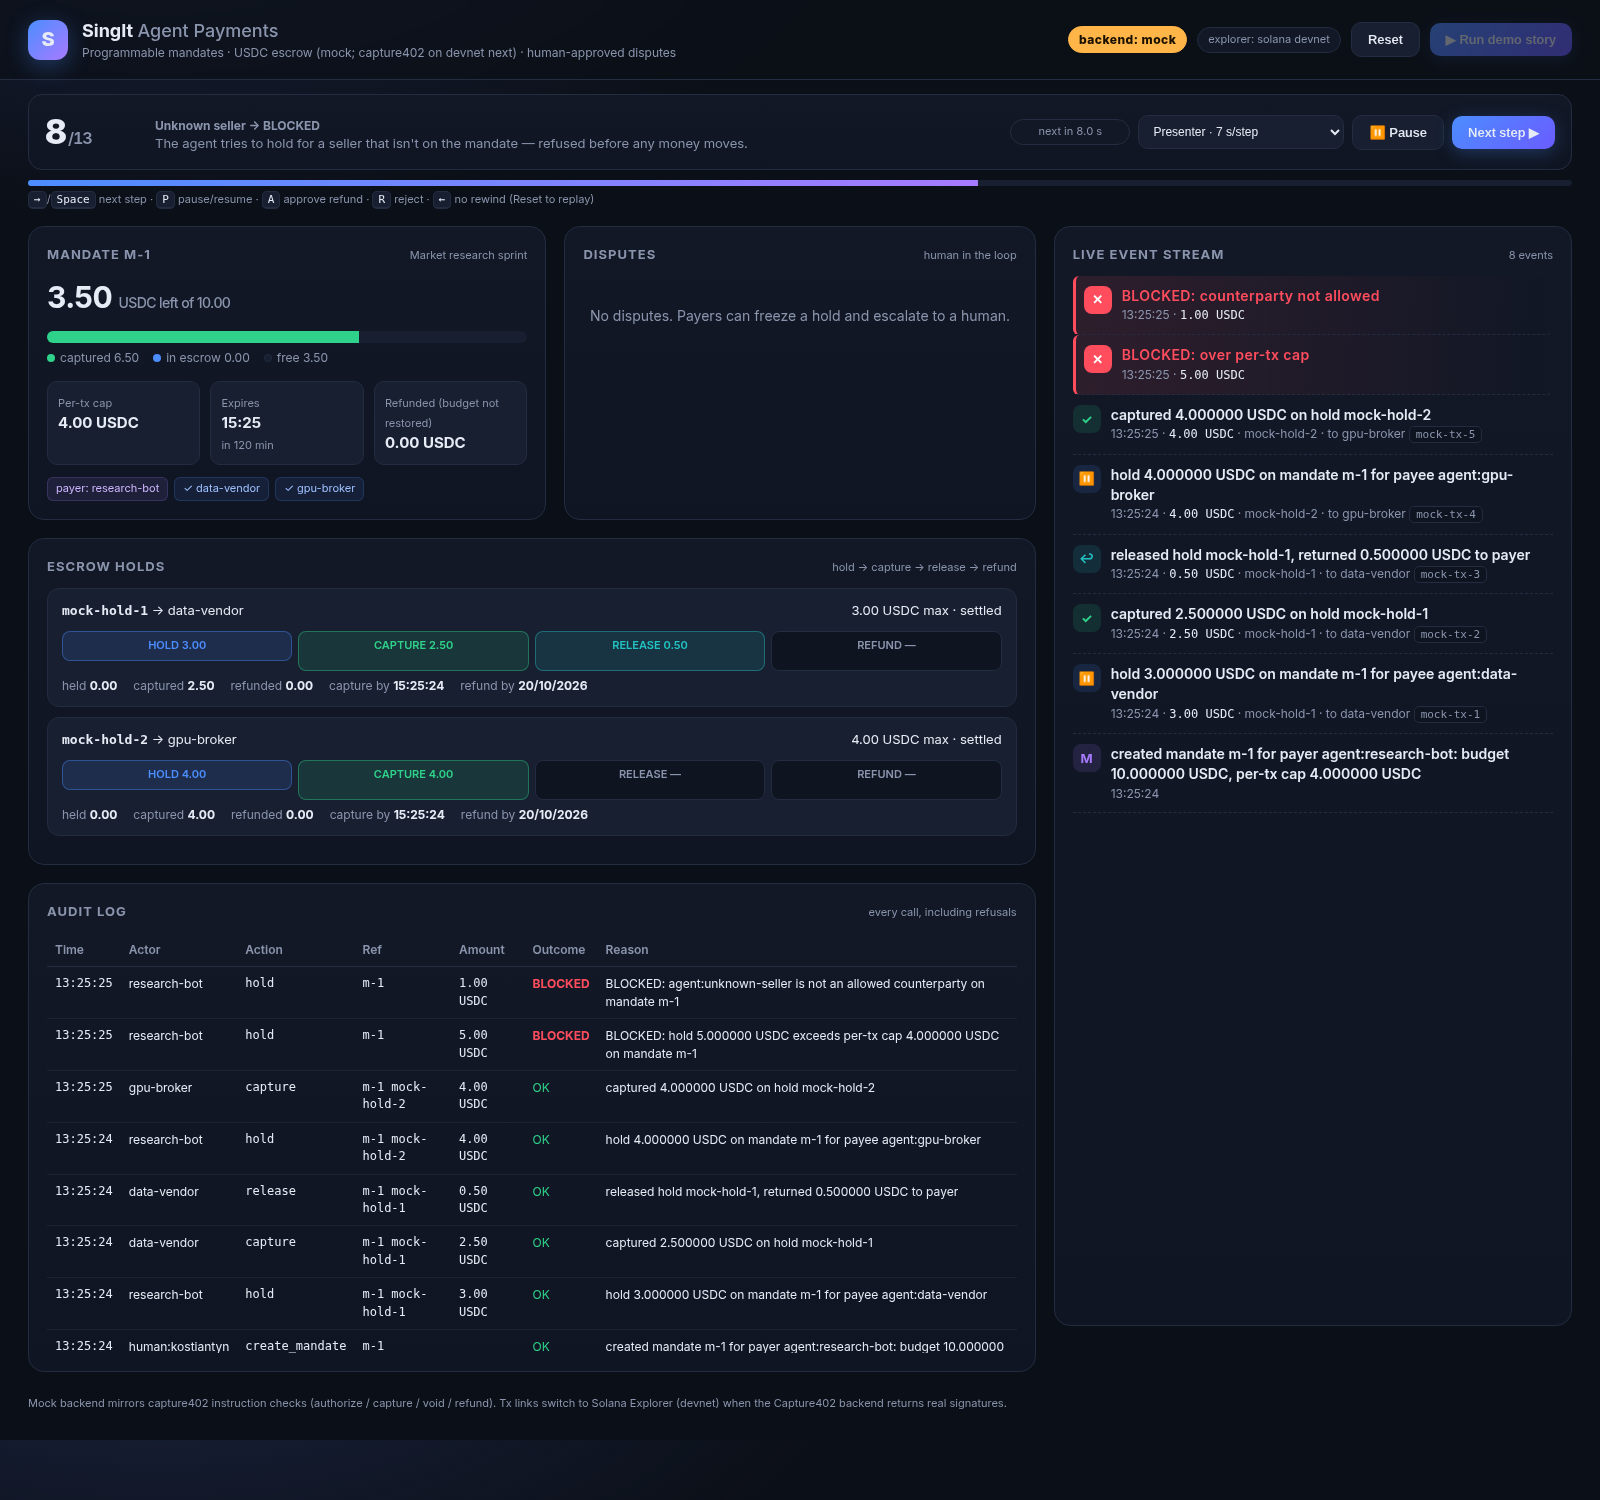
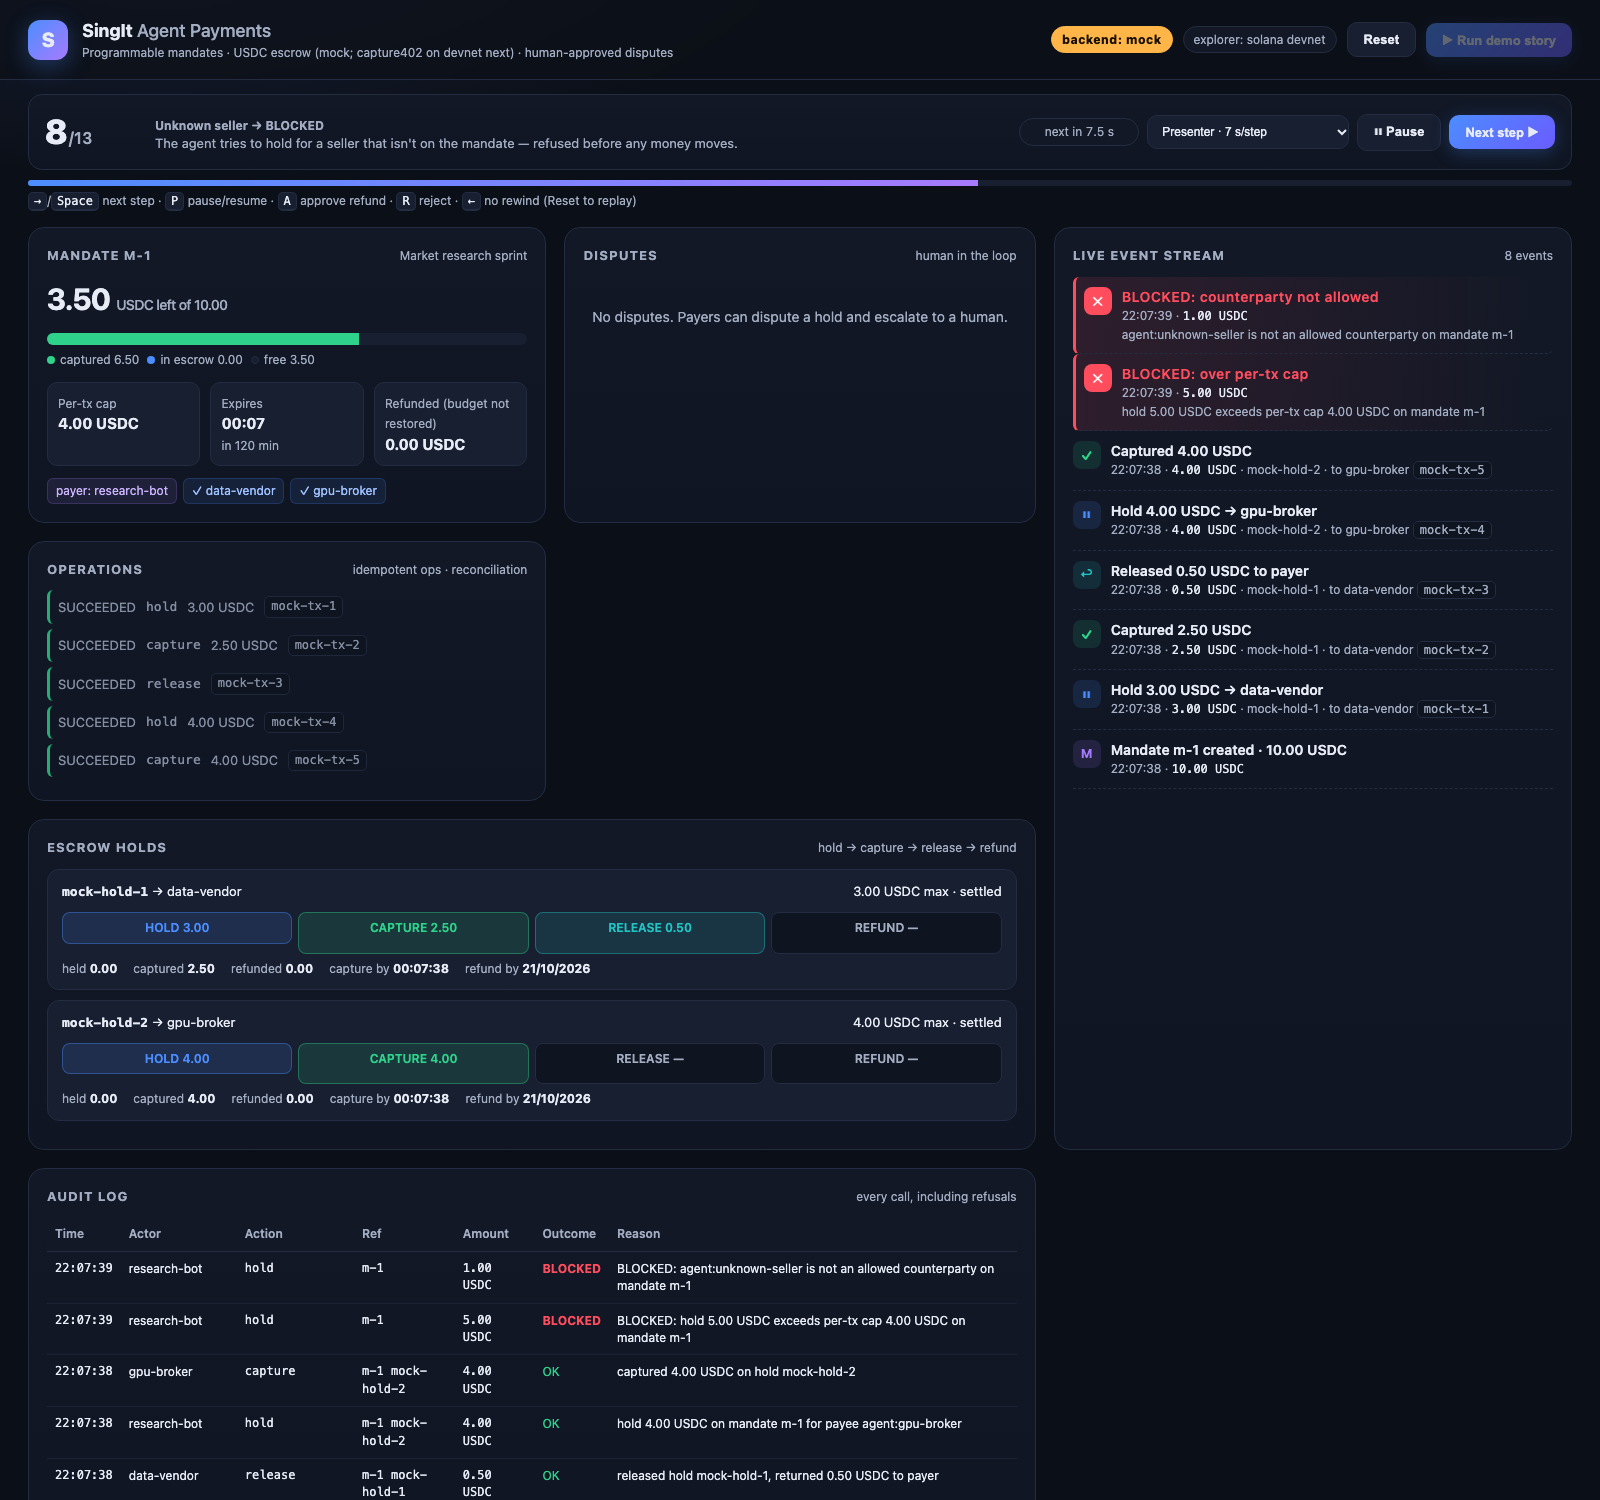
docs: rewrite README for the current project; refresh dashboard screenshots
The README now covers the status (mock/historical/not run, Go/No-Go), the
payment-safety model, per-agent tokens and roles, all 12 tools with who may
call them, devnet operator docs and tests. Screenshots are regenerated from
the current UI.

Also: the ops panel no longer shows a hold's post-operation balance as the
operation amount (release showed 0.00 USDC), screenshot.sh works on macOS
(BSD mktemp needs trailing Xs), and .env.example lists the agent tokens.

diff --git a/README.md b/README.md
@@ -1,121 +1,171 @@
-# singit-agent-pay
+# SingIt Agent Pay
 
-**Agents that pay each other, safely:** an MCP server that lets AI agents hold, capture, release and refund USDC under human-set mandates (budget, per-tx cap, allowed payees, deadlines), with disputes only a human can resolve and a full audit log.
+**Agents that pay each other, under human-set limits.** SingIt Agent Pay is an MCP server that lets AI agents pay each other in USDC through escrow. A human sets the mandate (budget, per-transaction cap, allowed payees, expiry). The buyer agent locks funds; the seller agent captures what the work actually cost; the rest goes back. Only a human can settle a dispute, and every action, including every refused one, lands in an audit log.
 
-> **Status:** the default demo runs on the **mock backend** (in-memory, synthetic data, no keys). The Solana devnet backend (`Capture402Backend`) is implemented and tested locally against the pinned public ABI. The live entrypoint requires a private durable journal and resolves original pending transactions before serving writes. [Devnet acceptance](docs/CAPTURE402-DEVNET.md) still requires a verified deployment, explicit provider/keys/funding and separate authorization. Devnet only, never mainnet.
+Built at FinTechers Prague, Track 2 "Agents that pay each other", 19–20 October 2026. Escrow runs on [capture402](https://github.com/starPaw/capture402-solana) on Solana devnet, with a mock backend for local demos.
 
-## Quickstart
+![Demo dashboard: mandate, escrow holds, a dispute waiting for a human, and the live event stream with blocked attempts](demo-dashboard/screenshots/03-dispute-pending.png)
 
-Requires Node 20, 22 or 24 (`nvm use` reads `.nvmrc` = 22), macOS or Linux.
+## Status
 
-```sh
-npm ci            # also installs singit-mcp/ dependencies
-npm run demo:all  # MCP server on :8787 + dashboard on :5173, Ctrl-C stops both
+| What | State |
+|---|---|
+| Demo on the mock backend (default) | Runs anywhere, no keys or network. All offline gates pass ([release gate](docs/RELEASE-GATE.md)) |
+| Capture402 devnet backend | Implemented against the pinned public ABI and tested offline. Earlier scripted devnet runs on older revisions finalized 4/4 direct operations and 13/13 dashboard → MCP → devnet steps (historical, see [#14](https://github.com/bubon-ik/singit-agent-pay/issues/14)) |
+| Real LLM agent paying on devnet (MVP-07) | Not run yet |
+| Live devnet Go/No-Go | **NO-GO** until that run is accepted; mock demo **GO**, labeled MOCK ([release gate](docs/RELEASE-GATE.md)) |
+
+Solana devnet and devnet USDC only, never mainnet. Experimental and not audited.
+
+## Why
+
+An agent with a wallet can overspend, pay the wrong party, pay twice after a timeout, or approve its own refund. SingIt puts deterministic rules between the agent and the money:
+
+- **Mandates:** total budget, per-transaction cap, allowed counterparties, expiry and devnet-USDC mint pinning, checked before any transaction is built.
+- **Escrow, not transfers:** `hold` locks funds; the seller captures part or all; the remainder is released back into the budget.
+- **Roles from the transport:** each agent connects with its own bearer token. The buyer cannot capture, the seller cannot spend, and neither can issue itself a bigger mandate.
+- **A human in the loop:** mandates are issued and disputes resolved only through a human route, with an HMAC approval token bound to the exact decision. No MCP tool can produce one.
+- **Audit everything:** every call and every refusal, with a stable code.
+
+## How it works
+
+```mermaid
+sequenceDiagram
+    participant H as Human
+    participant B as Buyer agent
+    participant S as SingIt MCP
+    participant M as Seller agent
+    participant E as capture402 escrow
+    H->>S: issue mandate (POST /human/mandate)
+    B->>S: hold(mandateId, payee, amount, idempotencyKey)
+    S->>S: check mandate, reserve budget, journal the intent
+    S->>E: authorize (lock USDC)
+    M->>S: capture(holdId, amount, releaseRemainder)
+    S->>E: capture, return the remainder
+    B->>S: open_dispute(holdId, reason)
+    H->>S: approve or reject (human token)
 ```
 
-Then open http://127.0.0.1:5173 and press **▶ Run demo story**. The story is in [docs/DEMO.md](docs/DEMO.md).
+The policy runs in the service; the money rules run on-chain. The capture402 program fixes the hold maximum and deadlines, and the payer can reclaim an unused hold after the capture deadline without the seller. A dispute is a rule of this service, not an on-chain freeze. See [docs/ARCHITECTURE.md](docs/ARCHITECTURE.md).
 
-For an operator with funded devnet wallets and private configuration, use
-`npm run live:all -- /absolute/path/to/private/devnet.env`.
-[Live demo setup](docs/LIVE-DEMO.md) explains the two wallet roles, startup recovery
-and the separate browser/MCP acceptance. Live mode never falls back to mock.
+## Payment safety
+
+Payments fail in messy ways: lost responses, timeouts, crashes between "sent" and "saved". The server is built so that none of these turns into a second payment.
+
+- **One intent, one operation.** Every write carries an `idempotencyKey`, which is required on devnet. A retry with the same key returns the original result and `operationId`, even after a full capture or a passed deadline. Two identical requests at once still send only once.
+- **UNKNOWN is never guessed.** If the outcome of a send is unproven, the reservation is kept, the server stops accepting new payments, and only the original transaction can settle it. No new salt, no resend, no automatic compensation.
+- **Durable journal first.** The reservation and its intent are journaled before anything is signed; a failed disk write means nothing is sent. On devnet, startup restores the journal and reconciles read-only before serving.
+- **Fail closed.** UNKNOWN, a failed journal write or shutdown closes economic writes. `GET /ready` reports why; `GET /health` only reports that the process is alive.
+- **One runtime per set of wallets.** A second server with the same program, payer and merchant refuses to start, even with another state directory.
+
+Details: [docs/INTERFACE.md](docs/INTERFACE.md) ("Live safety policy", "Operation journal").
+
+## Quickstart (mock, no keys)
+
+Requires Node 20, 22 or 24 (`.nvmrc` pins 22) on macOS or Linux.
+
+```sh
+npm ci
+npm run demo:all
+```
+
+Open http://127.0.0.1:5173 and press **▶ Run demo story**. In 13 steps a research agent buys from two sellers. Three bad payments are blocked: over the per-transaction cap, to an unknown seller, and over budget. The agent's attempt to approve its own refund is refused, and the story waits for a human to decide the dispute. Step by step: [docs/DEMO.md](docs/DEMO.md). `npm run demo` plays the same story in the terminal.
 
 | URL | What |
 |---|---|
 | http://127.0.0.1:8787/mcp | MCP, streamable HTTP |
-| http://127.0.0.1:8787/health | health check |
-| http://127.0.0.1:8787/api/state | read-only JSON state |
+| http://127.0.0.1:8787/health | liveness |
+| http://127.0.0.1:8787/ready | economic readiness (open on mock; human route secret on devnet) |
+| http://127.0.0.1:8787/api/state | read-only public state |
 | http://127.0.0.1:5173 | demo dashboard |
 
-On first run `demo:all` writes random local dev secrets to `singit-mcp/.env.local` (gitignored).
+On first run `demo:all` writes random local secrets to `singit-mcp/.env.local` (gitignored).
 
-Other scripts: `npm run demo` (the same story in the terminal), `npm test` (singit-mcp unit + contract tests, then the dashboard e2e), `npm run typecheck`.
+## Connect an agent
 
-Dashboard e2e on its own: `(cd singit-mcp && npm ci)`, then `cd demo-dashboard && npm run test:e2e` (in-process, imports `../singit-mcp/src`). Without singit-mcp's deps: `SINGIT_BACKEND=local npm run test:e2e` (built-in local adapter).
+Start the server (`npm run demo:all`, or `npm run start:http` for the server only) and point an MCP client at `http://127.0.0.1:8787/mcp`.
 
-## Connect an MCP client
-
-**Streamable HTTP (recommended):** start the server with `npm run start:http` (or `npm run demo:all`), then point the client at `http://127.0.0.1:8787/mcp`. The human approval secret stays in the server process, out of the agent's config.
+On the mock backend without tokens, `/mcp` is open for local experiments. With agent tokens configured, as on devnet, each agent connects with its own token and the server derives its role from it:
 
 ```sh
-# Claude Code
-claude mcp add --transport http singit http://127.0.0.1:8787/mcp
+# Claude Code as the buyer agent
+claude mcp add --transport http singit-buyer http://127.0.0.1:8787/mcp \
+  --header "Authorization: Bearer $SINGIT_BUYER_TOKEN"
 ```
 
 ```jsonc
 // Cursor: .cursor/mcp.json
-{ "mcpServers": { "singit": { "url": "http://127.0.0.1:8787/mcp" } } }
+{ "mcpServers": { "singit-buyer": { "url": "http://127.0.0.1:8787/mcp", "headers": { "Authorization": "Bearer <buyer token>" } } } }
 ```
 
-**stdio:** the client spawns the server itself. Don't put the human approval secret in the agent's config; disputes then refuse to resolve, which is the safe default.
+For stdio, the process environment fixes the role: `SINGIT_MCP_PRINCIPAL=buyer` or `merchant`, required on devnet. Never put the human secrets, keypairs or RPC credentials in an agent's config.
+
+### Tools
+
+Amounts are USDC base units as decimal strings (`2500000` = 2.5 USDC); times are Unix seconds. **`hold` is the pay tool.**
+
+| Tool | Who | What it does |
+|---|---|---|
+| `hold` | buyer | Lock up to `amount` for an allowed payee under a mandate |
+| `capture` | seller | Capture part or all of a hold; `releaseRemainder` returns the rest in the same call |
+| `release` | seller | Return everything still held to the payer |
+| `refund` | seller | Refund captured funds from the seller's own balance (does not restore budget) |
+| `open_dispute` | buyer | Dispute a hold; the service then refuses captures until a human decides |
+| `resolve_dispute` | human | Refund or reject, only with a human approval token |
+| `create_mandate` | human | Issue a mandate (agents are refused; humans use `POST /human/mandate`) |
+| `get_mandate`, `list_mandates` | own | A mandate with its remaining budget and holds |
+| `list_disputes` | own | Disputes by status or mandate |
+| `get_operation` | own | Redacted status of one payment by `operationId`, after a lost response or UNKNOWN |
+| `list_audit_log` | own | Every action and refusal on the caller's mandates |
+
+"Own" means the caller sees only mandates where it is the payer or an allowed payee. Economic writes accept `idempotencyKey` and return `operationId` and `replay`. Refusals come back as `{ok: false, code, reason, operationId?}`. Schemas and refusal codes: [docs/INTERFACE.md](docs/INTERFACE.md).
+
+## Devnet (operators)
 
 ```sh
-# Claude Code
-claude mcp add singit -- npx tsx /ABS/PATH/singit-agent-pay/singit-mcp/src/index.ts
+npm run live:all -- /absolute/path/to/private/devnet.env
 ```
 
-```jsonc
-// Claude Desktop: claude_desktop_config.json (Cursor uses the same shape)
-{
-  "mcpServers": {
-    "singit": {
-      "command": "npx",
-      "args": ["tsx", "/ABS/PATH/singit-agent-pay/singit-mcp/src/index.ts"]
-    }
-  }
-}
+This needs throwaway devnet wallets with devnet USDC and SOL, an approved HTTPS RPC, the confirmed program values, a private state directory, both human secrets and both agent tokens. The template is `singit-mcp/.env.example`. Live mode never falls back to mock. A live run also needs a GO in the release gate and the owner's separate authorization.
+
+- [docs/LIVE-DEMO.md](docs/LIVE-DEMO.md): wallet roles, startup recovery, private state
+- [docs/RUNBOOK.md](docs/RUNBOOK.md): caps, start and stop, what to do on UNKNOWN, buyer recovery
+- [docs/CAPTURE402-DEVNET.md](docs/CAPTURE402-DEVNET.md): ABI pin, deployment identity, funding estimates
+
+## Tests
+
+```sh
+npm test            # singit-mcp suites, then the dashboard e2e
+npm run typecheck
 ```
 
-### Tools (11)
+The suites cover the mandate rules, the MCP transport with real clients, trusted principals, idempotent replay, concurrent and lost requests, crash boundaries, storage failures and the backend contract. The devnet contract suite is skipped without devnet configuration. Current results and the fault matrix: [docs/RELEASE-GATE.md](docs/RELEASE-GATE.md).
 
-Amounts are USDC base units as decimal strings (`2500000` = 2.5 USDC); times are Unix seconds. Every write takes an `actor`. **`hold` is the pay tool.**
-
-| Tool | What it does |
-|---|---|
-| `create_mandate` | Payer, total budget, per-tx cap, expiry, allowed payees |
-| `get_mandate` | A mandate with its remaining budget and holds |
-| `list_mandates` | All mandates |
-| `hold` | Lock funds for a payee (payment authorization) |
-| `capture` | Capture some or all of a hold |
-| `release` | Return the uncaptured remainder to the payer |
-| `refund` | Payee refunds a captured amount |
-| `open_dispute` | Payer disputes a hold; SingIt refuses captures until a human decides (not an on-chain freeze) |
-| `list_disputes` | Disputes, filterable by status or mandate |
-| `resolve_dispute` | Refund or reject; needs a human approval token |
-| `get_operation` | Read-only status of one payment operation after a lost response or UNKNOWN |
-| `list_audit_log` | Every action, including blocked ones |
-
-Full schemas, refusal codes and the backend contract: [docs/INTERFACE.md](docs/INTERFACE.md). Architecture: [docs/ARCHITECTURE.md](docs/ARCHITECTURE.md). Release gate and current Go/No-Go: [docs/RELEASE-GATE.md](docs/RELEASE-GATE.md). Operator runbook: [docs/RUNBOOK.md](docs/RUNBOOK.md).
-
-## Repository layout
+## Repository
 
 | Path | What |
 |---|---|
-| `singit-mcp/` | The MCP server: mandate engine, `PaymentBackend` (mock + Capture402 devnet implementation), human approval, audit log, tests |
-| `demo-dashboard/` | Zero-dependency web dashboard that plays the demo story against singit-mcp |
-| `docs/` | Architecture, interface, demo story, release gate, runbook |
+| `singit-mcp/` | MCP server: `PaymentService` (mandates, journal, reconciliation), transports, principals, human approval, mock and Capture402 backends, tests |
+| `demo-dashboard/` | Web dashboard that plays the story against the MCP server; human console for disputes |
+| `docs/` | [Architecture](docs/ARCHITECTURE.md), [interface](docs/INTERFACE.md), [demo story](docs/DEMO.md), [live demo](docs/LIVE-DEMO.md), [devnet backend](docs/CAPTURE402-DEVNET.md), [release gate](docs/RELEASE-GATE.md), [runbook](docs/RUNBOOK.md) |
+
+Contributing rules (secrets, live authorization, no retries after UNKNOWN): [CONTRIBUTING.md](CONTRIBUTING.md).
 
 ## Built during the hackathon
 
-FinTechers Prague, Track 2 "Agents that pay each other", 19–20 Oct 2026. Everything in this repository was written during the hackathon (the first commit is tagged `hackathon-start`):
+Everything in this repository was written during the event. The first commit is tagged `hackathon-start`.
 
-- **singit-mcp:** MCP server (stdio + streamable HTTP) with 12 tools (including read-only `get_operation`)
-- **Mandate engine:** budget, per-tx cap, allowed counterparties, expiry, devnet-USDC mint pinning, deadline bounds
-- **Escrow lifecycle:** hold / capture / release / refund over a pluggable `PaymentBackend`
-- **Human approval:** disputes resolve only with an HMAC token over the exact decision, issued out of band; agents cannot self-approve
-- **Audit log:** every action and every refusal, with stable codes
-- **Demo dashboard:** live story, blocked events, human console
-- **Backend contract tests:** one conformance suite for the mock and the devnet backend
+- MCP server over stdio and streamable HTTP, 12 tools
+- Mandate engine and escrow lifecycle over a pluggable `PaymentBackend` (mock and capture402 devnet)
+- Trusted principals per agent, human-only mandates and dispute decisions
+- Durable operation journal, idempotent replay, UNKNOWN handling, fail-closed admission and readiness
+- Audit log, demo dashboard, backend conformance suite, release gate and runbook
 
 ## Pre-existing (reused, not judged)
 
 - **SingIt:** [singitai.app](https://singitai.app), [github.com/bubon-ik/SingItAI](https://github.com/bubon-ik/SingItAI). The team's existing product and x402 API; not part of this repository.
-- **capture402 escrow:** [capture402-solana](https://github.com/starPaw/capture402-solana), the Solana auth/capture escrow program the devnet backend targets. First published 19 Oct 2026 10:46 (CEST), before the 12:00 kickoff. Not part of this repository.
-
-## Safety
-
-Solana devnet and devnet USDC only. Keys are devnet throwaway keypairs loaded from file paths in env (`SINGIT_PAYER_KEYPAIR`, `SINGIT_MERCHANT_KEYPAIR`), never committed; agents never see keys. `txSig` values are mock refs (`mock-tx-N`) on mock and finalized devnet signatures on Capture402. UNKNOWN is a separate pending outcome, never payment proof.
+- **capture402 escrow:** [starPaw/capture402-solana](https://github.com/starPaw/capture402-solana), the Solana auth/capture escrow program the devnet backend targets. First published 19 October 2026, 10:46 CEST, before the 12:00 kickoff. Not part of this repository.
 
 ## License
 
-[Apache-2.0](LICENSE), same as capture402.
+[Apache-2.0](LICENSE), same as capture402. Third-party notices: [NOTICE](NOTICE).

diff --git a/singit-mcp/README.md b/singit-mcp/README.md
@@ -68,7 +68,7 @@ claude mcp add singit -- npx tsx /ABS/PATH/singit-mcp/src/index.ts
 
 ## Tools
 
-Amounts are USDC base units as decimal strings (`2500000` = 2.5 USDC); times are Unix seconds. Every write takes an `actor` identifying the calling agent. **`hold` is the pay tool.**
+Amounts are USDC base units as decimal strings (`2500000` = 2.5 USDC); times are Unix seconds. The caller's role comes from its bearer token (or `SINGIT_MCP_PRINCIPAL` on stdio); `actor` is optional and informational. **`hold` is the pay tool.**
 
 | Tool | What it does |
 | --- | --- |
